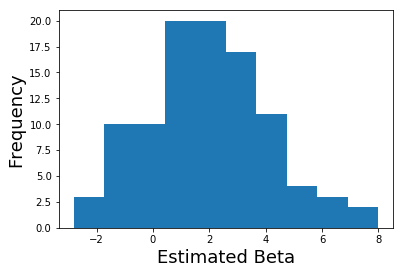
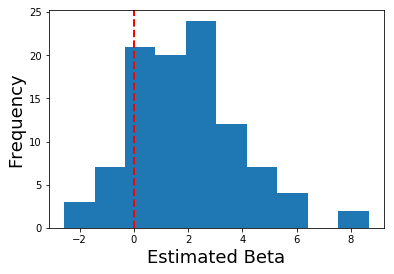
updated group analysis

diff --git a/_build/features/notebooks/11_Group_Analysis.md b/_build/features/notebooks/11_Group_Analysis.md
@@ -48,18 +48,15 @@ from nltools.external import glover_hrf
 from scipy.stats import ttest_1samp
 
 netid = 'f00275v'
-# output_dir = '/dartfs/rc/lab/P/Psych60/students_output/%s' % netid
-# data_dir = '/dartfs/rc/lab/P/Psych60/data/brainomics_data/'
-
-output_dir = '/Volumes/Psych60/students_output/%s' % netid
-data_dir = '/Volumes/Psych60/data/brainomics_data/'
+output_dir = '/dartfs/rc/lab/P/Psych60/students_output/%s' % netid
+data_dir = '/dartfs/rc/lab/P/Psych60/data/brainomics_data/'
 ```
 
 
 # Hierarchical Data Structure
 We can think of the data as being organized into a hierarchical structure. For each brain, we are measuring BOLD activity in hundreds of thousands of cubic voxels sampled at about 0.5Hz (i.e., TR=2s). Our experimental task will have many different trials for each condition (seconds), and these trials may be spread across multiple scanning runs (minutes), or entire scanning sessions (hours). We are ultimately interested in modeling all of these different scales of data to make an inference about the function of a particular region of the brain across the group of participants we sampled, which we would hope will generalize to the broader population.
 
-![HierarchicalStructure.png](attachment:HierarchicalStructure.png)
+![HierarchicalStructure.png](../../images/group_analysis/HierarchicalStructure.png)
 
 In the past few notebooks, we have explored how to preprocess the data to reduce noise and enhance our signal and also how we can estimate responses in each voxel to specific conditions within a single participant based on convolving our experimental design with a canonical hemodynamic response function (HRF). Here we will discuss how we combine these brain responses estimated at the first-level in a second-level model to make inferences about the group.
 
@@ -261,6 +258,7 @@ for sub in range(100):
 plt.hist(betas)
 plt.ylabel('Frequency', fontsize=18)
 plt.xlabel('Estimated Beta', fontsize=18)
+plt.axvline(x=0, color='r', linestyle='dashed', linewidth=2)
 ```
 
 
@@ -269,7 +267,7 @@ plt.xlabel('Estimated Beta', fontsize=18)
 
 {:.output .output_data_text}
 ```
-Text(0.5, 0, 'Estimated Beta')
+<matplotlib.lines.Line2D at 0x1c3ee82438>
 ```
 
 
@@ -297,7 +295,7 @@ ttest_1samp(betas, 0)
 
 {:.output .output_data_text}
 ```
-Ttest_1sampResult(statistic=9.34758722792861, pvalue=2.8990494767551474e-15)
+Ttest_1sampResult(statistic=9.496118013613062, pvalue=1.3751674242606958e-15)
 ```
 
 
